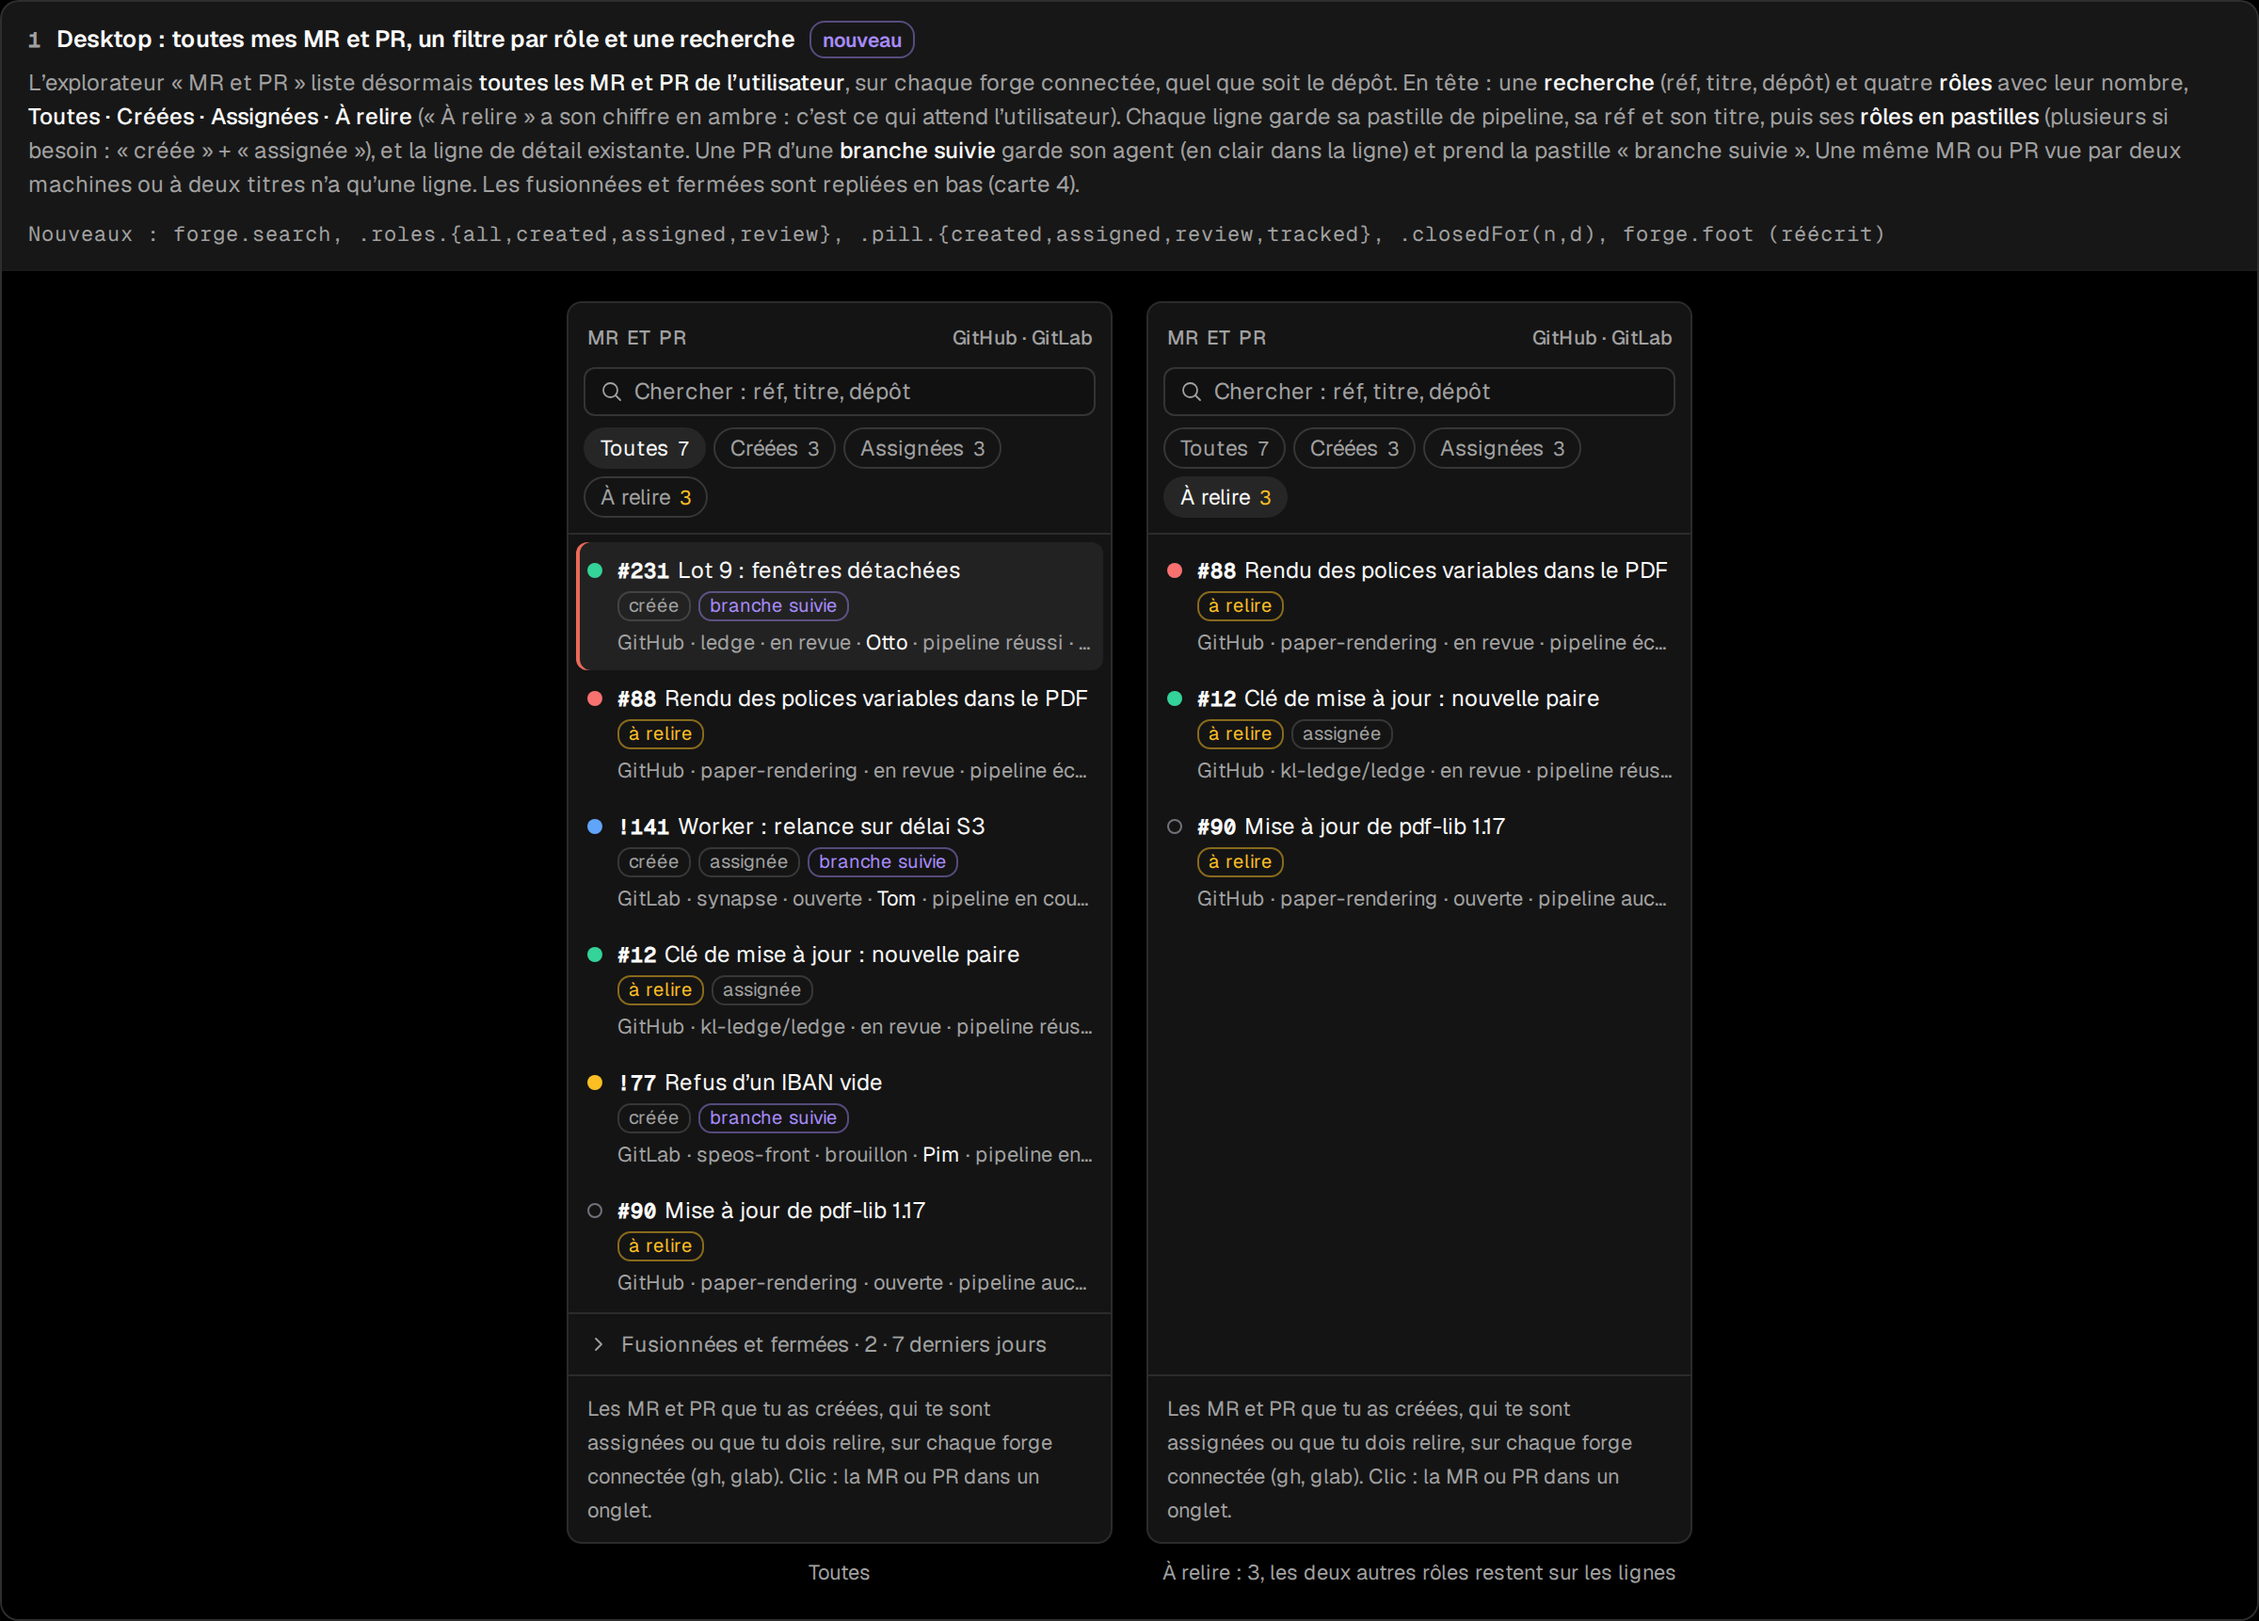
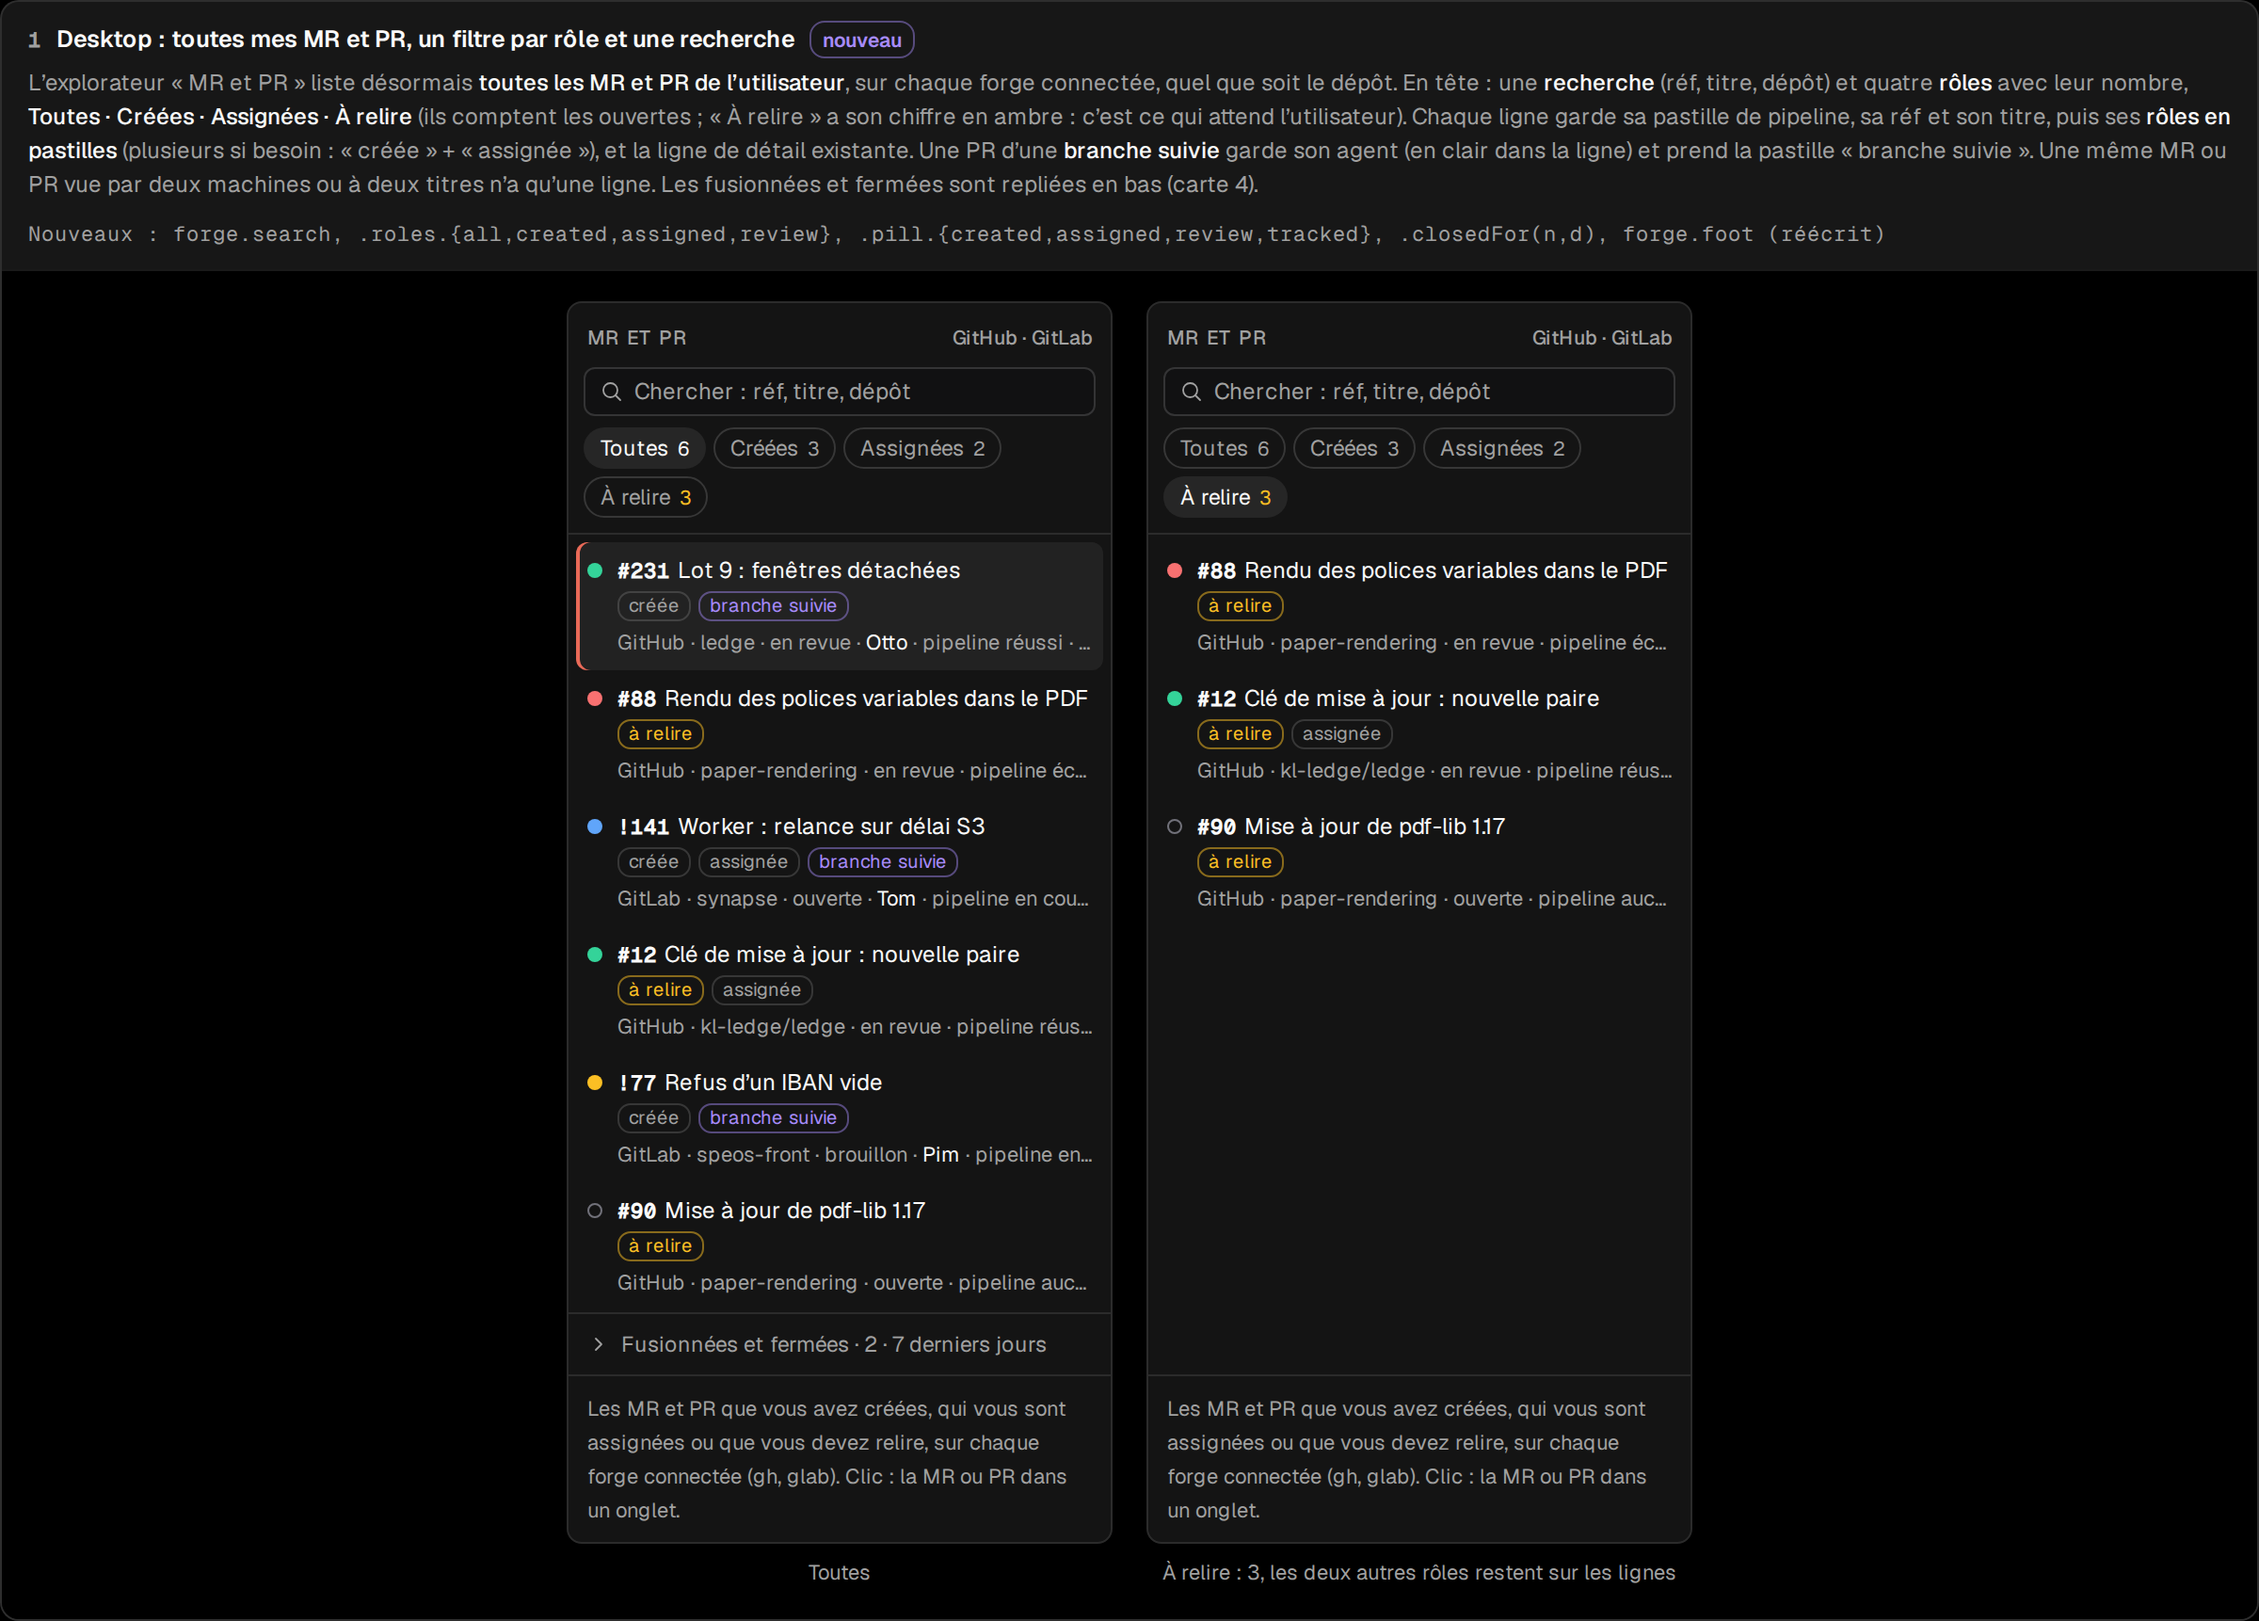
docs(mockups): #3 counts match the rows, formal register

Changed region(s): [[0.0, 0.0616, 1.0, 0.1231], [0.25, 0.8618, 0.4688, 0.9541], [0.5312, 0.8618, 0.7188, 0.9541]]

diff --git a/docs/mockups/ledge-prs-mine.html b/docs/mockups/ledge-prs-mine.html
@@ -131,7 +131,7 @@ const T = {
     state:{draft:'brouillon', open:'ouverte', review:'en revue', merged:'fusionnée', closed:'fermée'},
     pipe:{ok:'réussi', run:'en cours', fail:'échoué', wait:'en attente', none:'aucun'},
     closed:(n,d)=>`Fusionnées et fermées · ${n} · ${d} derniers jours`,
-    foot:'Les MR et PR que tu as créées, qui te sont assignées ou que tu dois relire, sur chaque forge connectée (gh, glab). Clic : la MR ou PR dans un onglet.',
+    foot:'Les MR et PR que vous avez créées, qui vous sont assignées ou que vous devez relire, sur chaque forge connectée (gh, glab). Clic : la MR ou PR dans un onglet.',
     none:'Aucune MR ou PR ne correspond.', clear:'Effacer le filtre', noneRole:{review:'Rien à relire pour l’instant.'},
     phoneTitle:'MR et PR', openHead:n=>`Ouvertes · ${n}`, asOf:'relevé 14:02', closedGroup:n=>`Fusionnées et fermées (${n})`, threads:n=>`${n} fil${n>1?'s':''}`, ready:'prête',
     tabs:['À toi','Sessions','MR/PR','Rigs','Ledge'],
@@ -161,7 +161,6 @@ const PRS = [
   {f:'github', ref:'#12', title:'Clé de mise à jour : nouvelle paire', repo:'kl-ledge/ledge', st:'review', p:'ok', roles:['review','assigned'], agent:null, th:1},
   {f:'gitlab', ref:'!77', title:'Refus d’un IBAN vide', repo:'speos-front', st:'draft', p:'wait', roles:['created'], agent:'Pim', th:0},
   {f:'github', ref:'#90', title:'Mise à jour de pdf-lib 1.17', repo:'paper-rendering', st:'open', p:'none', roles:['review'], agent:null, th:0},
-  {f:'github', ref:'#229', title:'Lot 6 : onglets Réglages et Atelier', repo:'ledge', st:'open', p:'ok', roles:['assigned'], agent:null, th:0},
 ];
 const CLOSED = [
   {f:'github', ref:'#228', title:'Lot 5 : groupes liés', repo:'ledge', st:'merged', p:'ok', roles:['created'], agent:'Iris', th:0},
@@ -193,7 +192,7 @@ const phone = (o={}) => {
 function cards(){
   const x = t(), C = [], F = L==='fr';
   C.push({title:F?'Desktop : toutes mes MR et PR, un filtre par rôle et une recherche':'Desktop: all my MRs and PRs, a role filter and a search',
-    why:`L’explorateur « MR et PR » liste désormais <b>toutes les MR et PR de l’utilisateur</b>, sur chaque forge connectée, quel que soit le dépôt. En tête : une <b>recherche</b> (réf, titre, dépôt) et quatre <b>rôles</b> avec leur nombre, <b>Toutes · Créées · Assignées · À relire</b> (« À relire » a son chiffre en ambre : c’est ce qui attend l’utilisateur). Chaque ligne garde sa pastille de pipeline, sa réf et son titre, puis ses <b>rôles en pastilles</b> (plusieurs si besoin : « créée » + « assignée »), et la ligne de détail existante. Une PR d’une <b>branche suivie</b> garde son agent (en clair dans la ligne) et prend la pastille « branche suivie ». Une même MR ou PR vue par deux machines ou à deux titres n’a qu’une ligne. Les fusionnées et fermées sont repliées en bas (carte 4).`,
+    why:`L’explorateur « MR et PR » liste désormais <b>toutes les MR et PR de l’utilisateur</b>, sur chaque forge connectée, quel que soit le dépôt. En tête : une <b>recherche</b> (réf, titre, dépôt) et quatre <b>rôles</b> avec leur nombre, <b>Toutes · Créées · Assignées · À relire</b> (ils comptent les ouvertes ; « À relire » a son chiffre en ambre : c’est ce qui attend l’utilisateur). Chaque ligne garde sa pastille de pipeline, sa réf et son titre, puis ses <b>rôles en pastilles</b> (plusieurs si besoin : « créée » + « assignée »), et la ligne de détail existante. Une PR d’une <b>branche suivie</b> garde son agent (en clair dans la ligne) et prend la pastille « branche suivie ». Une même MR ou PR vue par deux machines ou à deux titres n’a qu’une ligne. Les fusionnées et fermées sont repliées en bas (carte 4).`,
     keys:F?'Nouveaux : forge.search, .roles.{all,created,assigned,review}, .pill.{created,assigned,review,tracked}, .closedFor(n,d), forge.foot (réécrit)':'New: forge.search, .roles.{all,created,assigned,review}, .pill.{created,assigned,review,tracked}, .closedFor(n,d), forge.foot (rewritten)',
     scene: `<div>${side({cur:true})}<div class="cap">${F?'Toutes':'All'}</div></div><div>${side({role:'review', closed:false, cls:''})}<div class="cap">${F?'À relire : 3, les deux autres rôles restent sur les lignes':'To review: 3, other roles stay on the rows'}</div></div>`});
   C.push({title:F?'Recherche, et rien qui correspond':'Search, and nothing matching',
@@ -221,9 +220,9 @@ function fiche(){
   <tr><td>Lecture</td><td>Par forge connectée et par machine : GitHub <code>author:@me</code>, <code>assignee:@me</code>, <code>review-requested:@me</code> ; GitLab <code>scope=created_by_me</code>, <code>scope=assigned_to_me</code>, <code>reviewer_username=&lt;moi&gt;</code>. En plus des branches suivies (agent, pipeline). Fusion par forge + hôte + dépôt + réf : une ligne, rôles réunis.</td></tr>
   <tr><td>Protocole</td><td><code>PullRequest.roles: ('created'|'assigned'|'review')[]</code> dans <code>@ledge/protocol</code> ; <code>sessions</code> non vide = branche suivie.</td></tr>
   <tr><td>Pipeline</td><td>Montré pour toutes les lignes si la forge le donne ; sinon la pastille creuse « aucun ». À confirmer par dev-back (la recherche GitHub ne rend pas les checks ; il faut une lecture par PR, à borner).</td></tr>
-  <tr><td>Filtre</td><td>Recherche + rôle, gardés pour la vie de la fenêtre (Desktop) / de l’onglet (téléphone). Les chiffres comptent les ouvertes, sans la recherche. Tri : plus récente modifiée d’abord, comme aujourd’hui.</td></tr>
+  <tr><td>Filtre</td><td>Recherche + rôle, gardés pour la vie de la fenêtre (Desktop) / de l’onglet (téléphone). Les chiffres comptent les ouvertes seulement (pas les fusionnées et fermées repliées), sans la recherche. Tri : plus récente modifiée d’abord, comme aujourd’hui.</td></tr>
   <tr><td>Fermées</td><td>Repliées en bas, durée selon la question 1 ; filtre et recherche appliqués.</td></tr>
-  <tr><td>Pied</td><td>Réécrit : « Les MR et PR que tu as créées, qui te sont assignées ou que tu dois relire, sur chaque forge connectée (gh, glab). Clic : la MR ou PR dans un onglet. »</td></tr>
+  <tr><td>Pied</td><td>Réécrit : « Les MR et PR que vous avez créées, qui vous sont assignées ou que vous devez relire, sur chaque forge connectée (gh, glab). Clic : la MR ou PR dans un onglet. »</td></tr>
   <tr><td>Textes</td><td>Nouveaux (FR · EN) : Chercher : réf, titre, dépôt · Search: ref, title, repository ; Toutes / Créées / Assignées / À relire · All / Created / Assigned / To review ; créée / assignée / à relire / branche suivie · created / assigned / to review / tracked branch ; Fusionnées et fermées · {n} · {d} derniers jours ; Aucune MR ou PR ne correspond. ; Effacer le filtre ; le pied. Repris : états, pipeline, ligne de détail, « Fusionnées et fermées (n) » du téléphone.</td></tr>
   </table>
   <h2 style="margin-top:14px">Questions pour l’utilisateur (recommandation en premier)</h2>
@@ -232,7 +231,7 @@ function fiche(){
     <li><b>Le filtre à l’ouverture</b> : A) « Toutes » (recommandé : rien n’est caché) ; B) « À relire » s’il y en a, sinon « Toutes ».</li>
     <li><b>Les chiffres des rôles</b> : A) ils comptent tout, sans la recherche (recommandé : on voit où chercher) ; B) ils suivent la recherche.</li>
     <li><b>Le badge de la barre d’activité</b> (aujourd’hui : pipelines échoués) : A) inchangé (recommandé) ; B) il ajoute le nombre « À relire ».</li>
-    <li><b>Les textes nouveaux</b> (fiche) : d’accord ? Le pied passe au tutoiement, comme « À toi ».</li>
+    <li><b>Les textes nouveaux</b> (fiche) : d’accord ? Ils vouvoient, comme le reste de Desktop.</li>
   </ol></section>`;
 }
 
